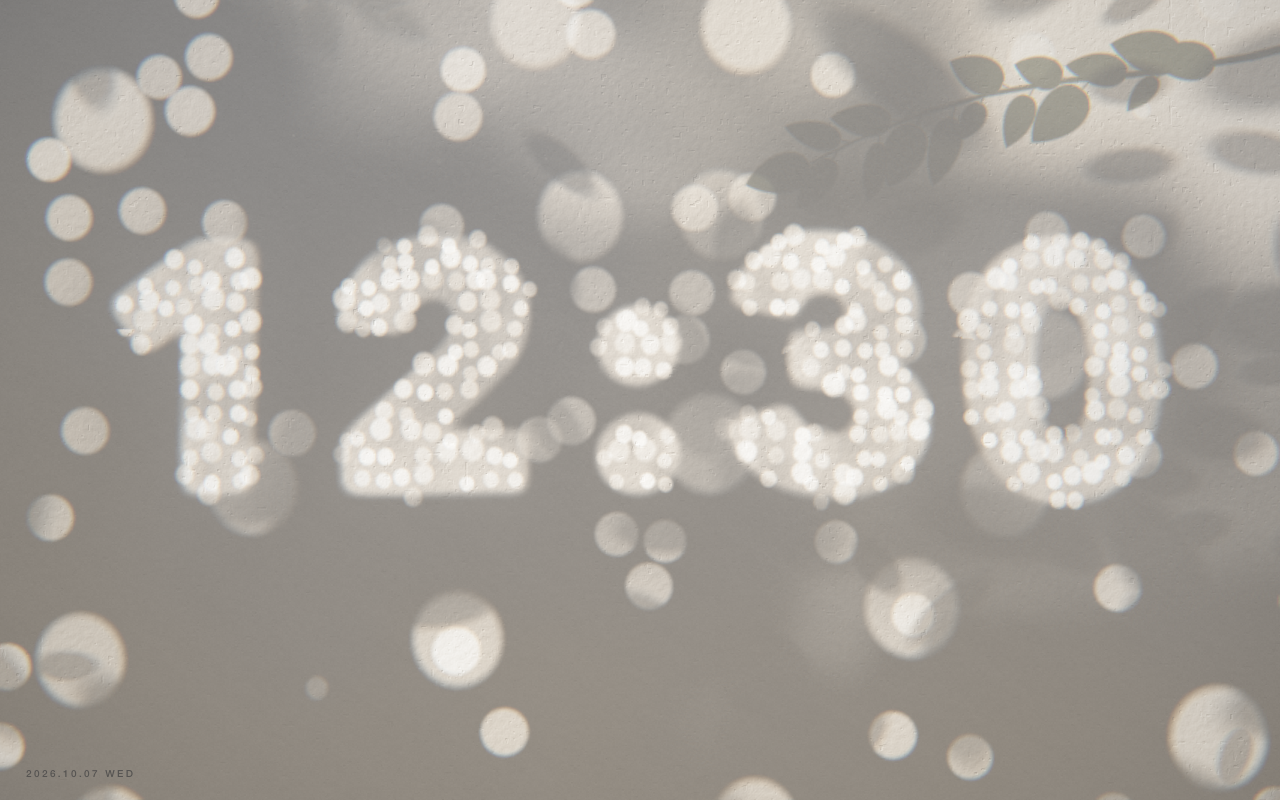
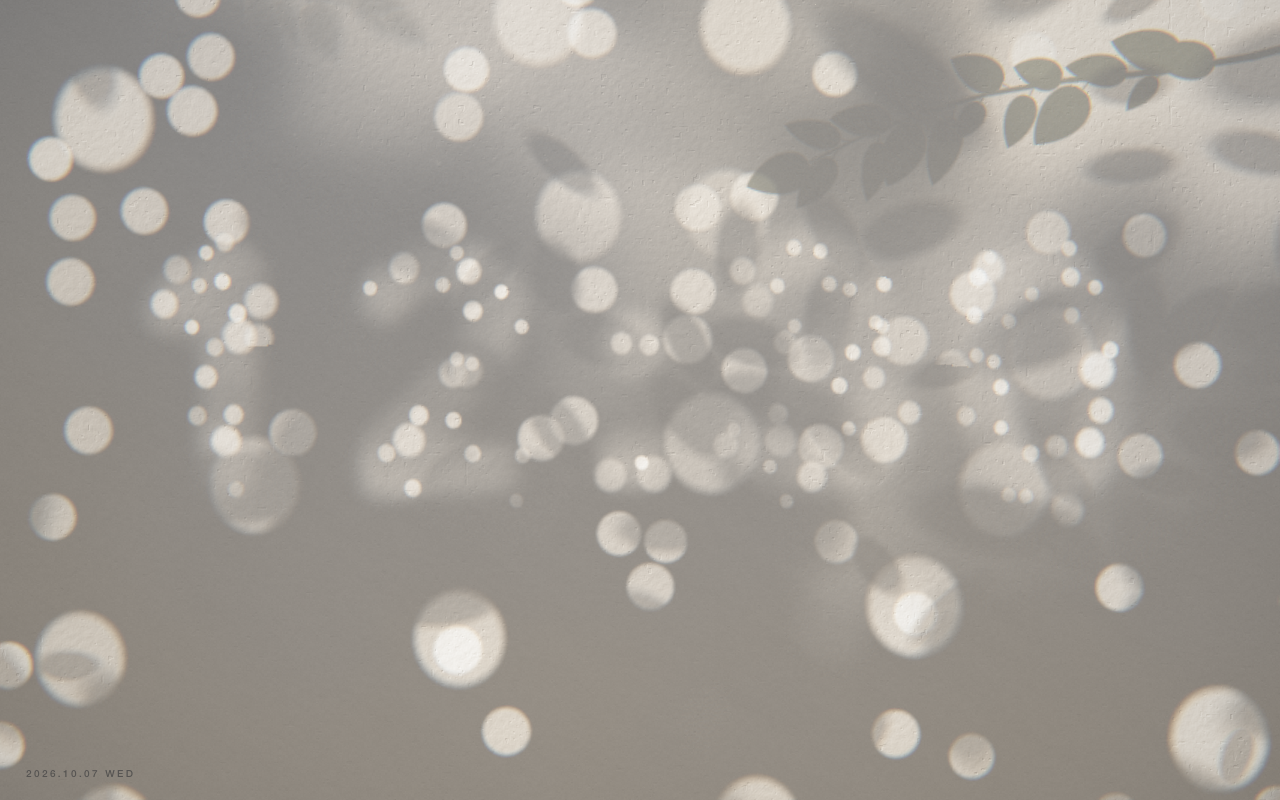
Komorebi Clock: let the time sit in the light instead of on it
Digits are now made of ordinary-sized pinhole spots that gather a little more
densely, with no solid fill, no glow, and the canopy's shadows and stray spots
passing across them. Leaf clusters thin the opening unevenly and the mask sways
further with the wind. Store screenshots retaken.

diff --git a/komorebi/extension/newtab.js b/komorebi/extension/newtab.js
@@ -240,16 +240,16 @@ float dspots(vec2 p, vec2 toMask, float sc, float seed, vec2 ax, float sel, floa
       vec2 o = vec2(float(i), float(j));
       vec2 c = ci + o;
       vec2 h = hash22(c + seed);
-      vec2 jit = (h - .5) * .62;
+      vec2 jit = (h - .5) * .86;
       float md = texture2D(uMask, muv((c + .5 + jit) / sc + toMask)).r;
       float k = hash12(c * 1.37 + seed * 3.1);
-      if (k > smoothstep(.10, .55, md) * .96) continue;
+      if (k > smoothstep(.12, .60, md) * .9) continue;
       float ph = k * 61.7;
       vec2 wob = vec2(n1(t * (1.1 + h.x) + ph), n1(t * (.9 + h.y) + ph + 17.)) * 2. - 1.;
       vec2 dv = o + .5 + jit + flut * .09 * wob - cf;
       float fl = n1(t * (.6 + 1.2 * h.y) + ph * 1.3);
       float opn = 1. - (.08 + .4 * flut) * smoothstep(.5, .92, fl) * step(.5, h.y);
-      float r = mix(.42, .66, h.y * h.y);
+      float r = mix(.24, .62, h.y * h.y * h.y);
       acc += spot(dv, ax, sel, r, min(soft * 1.7, .8)) * opn * (.38 + .62 * fract(k * 13.7 + h.x * 3.1)) * (.5 + .5 * smoothstep(.25, .8, md));
     }
   }
@@ -324,31 +324,34 @@ void main(){
 
   /* the written time sways and breathes with the mid canopy */
   vec2 br = vec2(vnoise(p * 2.3 + vec2(t * .11, 1.3)), vnoise(p * 2.3 + vec2(4.7, -t * .09))) - .5;
-  vec2 woff = uSway.zw * .9 + gv * .02 + br * .014 * uShad.w;
+  vec2 woff = uSway.zw * 1.2 + gv * .03 + br * .03 * uShad.w;
   vec4 M = texture2D(uMask, muv(p + woff));
-  float m = smoothstep(.10, .75, M.r);
+  float m = smoothstep(.12, .80, M.r);
+  /* leaf clusters thin the opening unevenly, so the digits are only ever half there */
+  float er = vnoise(p * 3.1 + vec2(t * .015, 2.7)) * .65 + vnoise(p * 7.3 + 5.1) * .35;
+  m *= .55 + .45 * smoothstep(.25, .66, er);
   float halo = M.g;
   float zone = smoothstep(.04, .42, M.b);
 
   /* far canopy: gaps + sparse pinholes, kept away from the digits' surroundings */
   vec2 pf = p + sun * .10 + uSway.xy + gv * .016 + drift;
-  float gapN = fbm(pf * .92 + vec2(3.1, 7.7)) + .10 * p.x + .03 * p.y;
-  float gap = smoothstep(.64, .82, gapN) * (.25 + 1.2 * open) * (1. - .92 * max(zone, halo));
-  float s1 = spots(pf, vec2(0.), 5.2, .31, .36, soft, 1., ax, sel, flut, t, open) * .8 * (1. - .95 * max(halo, .8 * zone));
+  float gapN = fbm(pf * .92 + vec2(3.1, 7.7)) + .05 * p.x + .03 * p.y;
+  float gap = smoothstep(.64, .82, gapN) * (.25 + 1.2 * open) * (1. - .5 * max(zone, halo));
+  float s1 = spots(pf, vec2(0.), 5.2, .31, .36, soft, 1., ax, sel, flut, t, open) * .8 * (1. - .85 * max(halo, .75 * zone));
   vec2 pf2 = p + sun * .07 + uSway.xy * 1.45 + gv * .026 + drift * .7;
-  float s2 = spots(pf2, pf - pf2, 10.5, .31, .36, soft, 17., ax, sel * .97, flut, t, open) * (1. - .9 * max(halo, .6 * zone));
+  float s2 = spots(pf2, pf - pf2, 10.5, .31, .36, soft, 17., ax, sel * .97, flut, t, open) * (1. - .6 * max(halo, .45 * zone));
   float far = gap + (1. - gap) * (s1 + .7 * s2);
 
   /* the opening: many small pinhole images clustered inside the digits */
   vec2 pd = p + sun * .05 + uSway.zw * .9 + gv * .02 + drift * .5;
-  float ds = .85 * dspots(pd, p - pd + woff, 37., 5., ax, sel, soft, flut, t);
+  float ds = .8 * dspots(pd, p - pd + woff, 23., 5., ax, sel, soft, flut, t);
   float fillN = .6 * vnoise(pd * 9. + 3.) + .4 * vnoise(pd * 23. + 11.);
-  float fill = m * (.26 + .30 * smoothstep(.3, .85, fillN));
+  float fill = m * (.10 + .12 * smoothstep(.3, .85, fillN));
   far += (ds + fill) * (1. - .45 * min(far, 1.));
 
   vec2 pm = p + sun * .05 + uSway.zw + gv * .03 + drift * .5;
   float mid = max(clusters(pm, 4.2, 3.7, flut, t), .9 * clusters(pm + vec2(.37, .11), 8.6, 11.3, flut, t));
-  mid *= (.55 + .45 * (1. - open)) * (1. - .95 * max(halo, m));
+  mid *= (.55 + .45 * (1. - open)) * (1. - .4 * m);
 
   /* near branches; their shadows stretch with a low sun */
   vec2 pn = p + uShad.xy;
@@ -379,8 +382,8 @@ void main(){
     nB = max(nB, segCov(pnB, J.zw, K.xy, mix(.0065, .003, (f0 + 1.) / 4.) * uBrSc.y, .016 * uShad.z));
   }
   nB = max(nB, segCov(pnB, uJB[2].xy, uJB[2].zw, .003 * uBrSc.y, .016 * uShad.z));
-  nA *= 1. - .62 * m;
-  nB *= 1. - .70 * m;
+  nA *= 1. - .12 * m;
+  nB *= 1. - .18 * m;
 
   float S = far * (1. - mid * .88) * (1. - nA * .9) * (1. - nB * .45);
   float tr = min(far, 1.) * (1. - mid) * max(nA * .9, nB * .3);
@@ -445,7 +448,7 @@ void main(){
 
   vec3 col = alb * (amb + sunP * direct);
   col += alb * vec3(.34, .40, .07) * tr * .16 * dot(sunC, vec3(.33));
-  col += alb * sunC * uGlow.x * halo;
+  col += alb * sunC * uGlow.x * halo * .2;
 
   col = vec3(1.) - exp(-col * 1.12);
   col = pow(col, vec3(1. / 2.2));
@@ -573,7 +576,7 @@ function drawMask(key) {
   c.fillRect(0, 0, mw, mh);
 
   /* measure at 100px, then scale: digits ~31% of the height, at most 84% of the width */
-  c.font = `700 100px ${FONT_STACK}`;
+  c.font = `600 100px ${FONT_STACK}`;
   let adv = 0;
   for (let d = 0; d < 10; d++) adv = Math.max(adv, c.measureText(String(d)).width);
   const mt = c.measureText('0');
@@ -595,7 +598,7 @@ function drawMask(key) {
     x += w + (ch === ':' ? 0 : track * k);
   }
   const paint = (style, blur, extra) => {
-    c.font = `700 ${fs}px ${FONT_STACK}`;
+    c.font = `600 ${fs}px ${FONT_STACK}`;
     c.filter = blur > 0 ? `blur(${blur}px)` : 'none';
     c.fillStyle = style; c.strokeStyle = style;
     c.lineJoin = 'round'; c.lineWidth = extra;
@@ -605,9 +608,9 @@ function drawMask(key) {
     }
   };
   /* R: the letterform, slightly rounded and softened; G: a halo; B: a broad zone */
-  paint('rgb(255,0,0)', fs * 0.022, fs * 0.03);
+  paint('rgb(255,0,0)', fs * 0.055, fs * 0.02);
   c.globalCompositeOperation = 'lighter';
-  paint('rgb(0,255,0)', fs * 0.10, fs * 0.05);
+  paint('rgb(0,255,0)', fs * 0.14, fs * 0.05);
   paint('rgb(0,0,255)', fs * 0.34, fs * 0.12);   /* B: a broad zone kept clear of big gaps */
   c.globalCompositeOperation = 'source-over';
   c.filter = 'none';

diff --git a/komorebi/README.md b/komorebi/README.md
@@ -2,7 +2,7 @@
 
 A Chrome extension that replaces the new tab page with the time written in sunlight through leaves on a plaster wall.
 
-Inside the digits the canopy opens, so pinhole images of the sun cluster there; the rest of the wall stays in leaf shade with only a few stray spots. The digits sway and breathe with the wind. On each new minute a small cloud passes: the light dims, the leaves rearrange into the new time, and the sun comes back. The light follows the local hour: pink-orange at dawn, warm white in the morning, bright and neutral at noon, golden with long ellipses in the late afternoon, deep orange at dusk, and cool blue moonlight at night.
+The time is only half there. Where the digits fall, the canopy opens a little more, so ordinary pinhole images of the sun gather a little more densely; leaf shadows and stray spots keep drifting across them. At a glance it is dappled light on a wall, and the time appears when you look for it. The digits sway and breathe with the wind. On each new minute a small cloud passes: the light dims, the leaves rearrange into the new time, and the sun comes back. The light follows the local hour: pink-orange at dawn, warm white in the morning, bright and neutral at noon, golden with long ellipses in the late afternoon, deep orange at dusk, and cool blue moonlight at night.
 
 ![screenshot](store/screenshot_1280x800_a.png)
 
